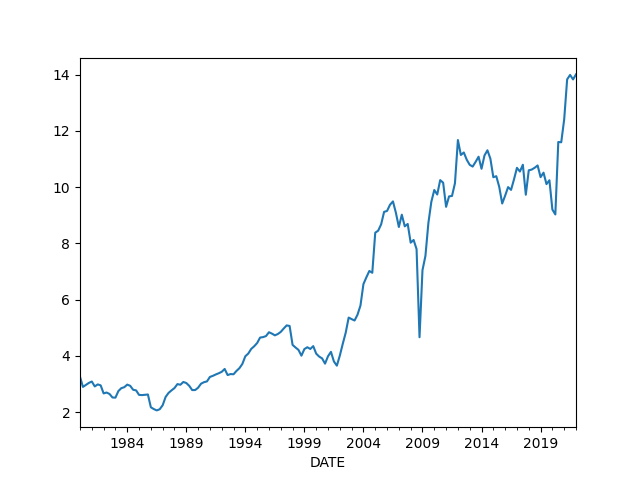
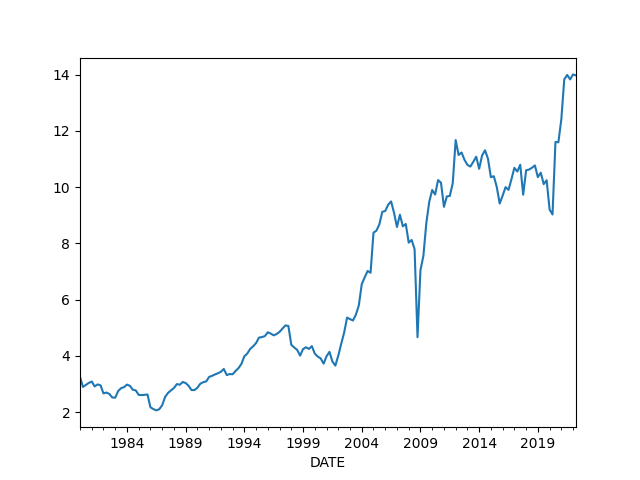
--

diff --git a/en/2019/05/stats.md b/en/2019/05/stats.md
@@ -381,7 +381,8 @@ Divide (1) by (2) as suggested in [4],
 
 
 ```python
-import util; df = util.get_fred(1980, ['CP','FINSLC1'])
+import pandas as pd; pd.set_option('display.max_columns', None)
+import util; df = util.get_fred(1980, ['CP','FINSLC1']); df = df.interpolate()
 df = df.dropna()
 df['PM'] = df['CP'] / df['FINSLC1'] * 100.0
 df.PM.plot()
@@ -392,10 +393,10 @@ plt.savefig('profitmargin.png')
 ```text
                   CP    FINSLC1         PM
 DATE                                      
-2021-04-01  2690.388  19449.270  13.832848
 2021-07-01  2721.601  19453.436  13.990336
 2021-10-01  2700.326  19524.288  13.830599
 2022-01-01  2726.711  19463.672  14.009232
+2022-04-01  2726.711  19516.499  13.971312
 ```
 
 ![](profitmargin.png)
